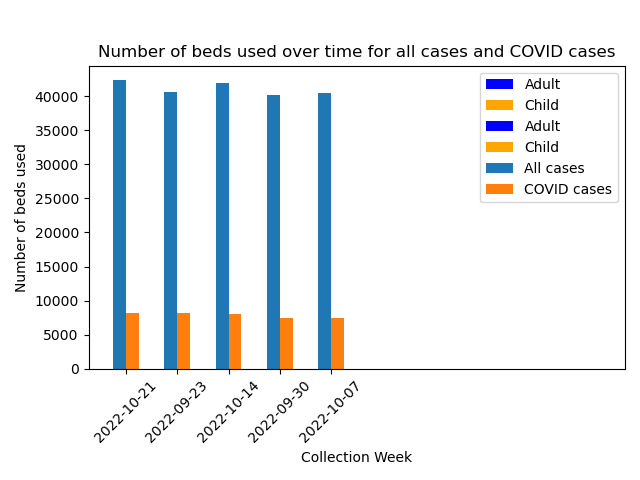
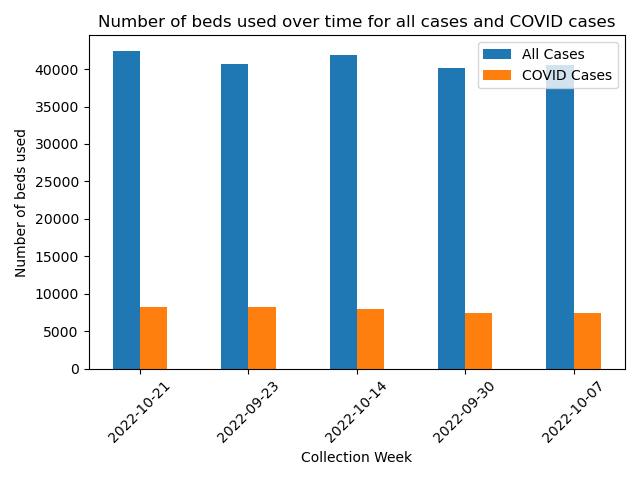
Added report generation code

diff --git a/weekly-report.py b/weekly-report.py
@@ -69,6 +69,9 @@ sql_query_2 = "select ratings.hospital_name, \
 df_sql_query_1 = pd.read_sql_query(sql_query_1, conn).dropna().head(n = 10)
 df_sql_query_2 = pd.read_sql_query(sql_query_2, conn).dropna().head(n = 10)
 
+st.dataframe(df_sql_query_1)
+st.dataframe(df_sql_query_2)
+
 # Generating plots
 n = df_sql_query_1.hospital_name.shape[0]
 ind = np.arange(n)
@@ -78,7 +81,6 @@ plt.bar(
     ind,
     df_sql_query_1.adult_occupied,
     width,
-    color = 'blue',
     label = 'Adult',
     )
 
@@ -86,15 +88,14 @@ plt.bar(
     ind + width,
     df_sql_query_1.child_occupied,
     width,
-    color = 'orange',
     label = 'Child',
     )
 
 plt.xticks(
     ind + width / 2,
     df_sql_query_1.hospital_name,
-    rotation = 45,
-    fontsize = 10
+    rotation = 90,
+    fontsize = 6
     )
 
 plt.xlabel('Hospitals')
@@ -103,13 +104,13 @@ plt.title('Bed Usage Information For Top 10 Rated Hospitals')
 plt.legend()
 plt.tight_layout()
 plt.savefig("/Users/arshmacbook/Desktop/36-614/data_engineering_project/Plots/summary_3.1.png")
+plt.close()
 st.image("/Users/arshmacbook/Desktop/36-614/data_engineering_project/Plots/summary_3.1.png")
 
 plt.bar(
     ind,
     df_sql_query_2.adult_occupied,
     width,
-    color = 'blue',
     label = 'Adult',
     )
 
@@ -117,15 +118,14 @@ plt.bar(
     ind + width,
     df_sql_query_2.child_occupied,
     width,
-    color = 'orange',
     label = 'Child',
     )
 
 plt.xticks(
     ind + width / 2,
     df_sql_query_2.hospital_name,
-    rotation = 45,
-    fontsize = 10
+    rotation = 90,
+    fontsize = 6
     )
 
 plt.xlabel('Hospitals')
@@ -134,6 +134,7 @@ plt.title('Bed Usage Information For Lowest 10 Rated Hospitals')
 plt.legend()
 plt.tight_layout()
 plt.savefig("/Users/arshmacbook/Desktop/36-614/data_engineering_project/Plots/summary_3.2.png")
+plt.close()
 st.image("/Users/arshmacbook/Desktop/36-614/data_engineering_project/Plots/summary_3.2.png")
 
 # Question 4
@@ -170,6 +171,8 @@ sql_query = "select all_beds.collection_week as collection_week, \
 
 covid_and_all_beds_used_per_week = pd.read_sql_query(sql_query, conn)
 
+st.dataframe(covid_and_all_beds_used_per_week)
+
 # Generating plot
 n = covid_and_all_beds_used_per_week.collection_week.shape[0]
 ind = np.arange(n)
@@ -179,21 +182,20 @@ plt.bar(
     ind,
     covid_and_all_beds_used_per_week.all_beds_used,
     width,
-    label = "All cases"
+    label = "All Cases"
     )
 
 plt.bar(
     ind + width,
     covid_and_all_beds_used_per_week.covid_beds_used,
     width,
-    label = "COVID cases"
+    label = "COVID Cases"
     )
 
 plt.xticks(
     ind + width / 2,
     covid_and_all_beds_used_per_week.collection_week,
-    rotation = 45,
-    fontsize = 10
+    rotation = 45
     )
 
 plt.xlabel("Collection Week")
@@ -202,6 +204,7 @@ plt.title("Number of beds used over time for all cases and COVID cases")
 plt.legend()
 plt.tight_layout()
 plt.savefig("/Users/arshmacbook/Desktop/36-614/data_engineering_project/Plots/summary_4.png")
+plt.close()
 st.image("/Users/arshmacbook/Desktop/36-614/data_engineering_project/Plots/summary_4.png")
 
 
@@ -262,8 +265,12 @@ sql_query = "select address.state as state, \
         from address \
         ) as address \
     on address.hospital_pk = covid_info.hospital_pk \
-    group by state"
+    group by state \
+    order by covid_cases desc"
 covid_cases_per_state = pd.read_sql_query(sql_query, conn)
+
+st.write("Top 10 states with highest covid cases")
+st.dataframe(covid_cases_per_state.head(n = 10))
 
 # Generating plot
 covid_cases_map = px.choropleth(
